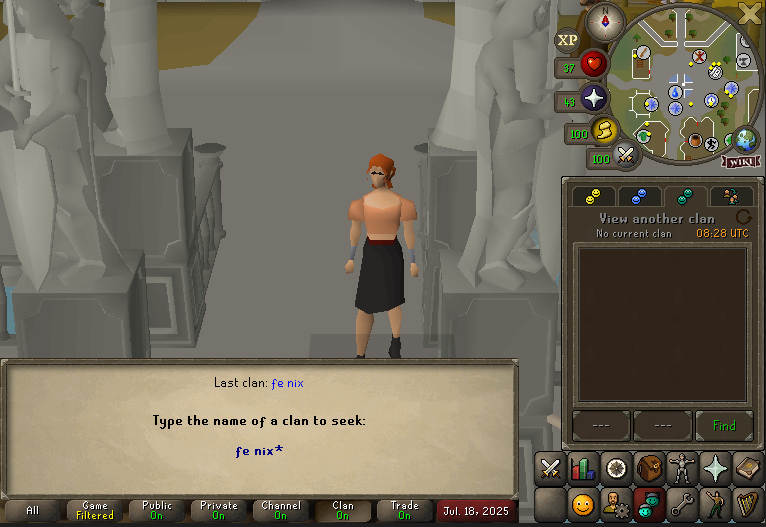
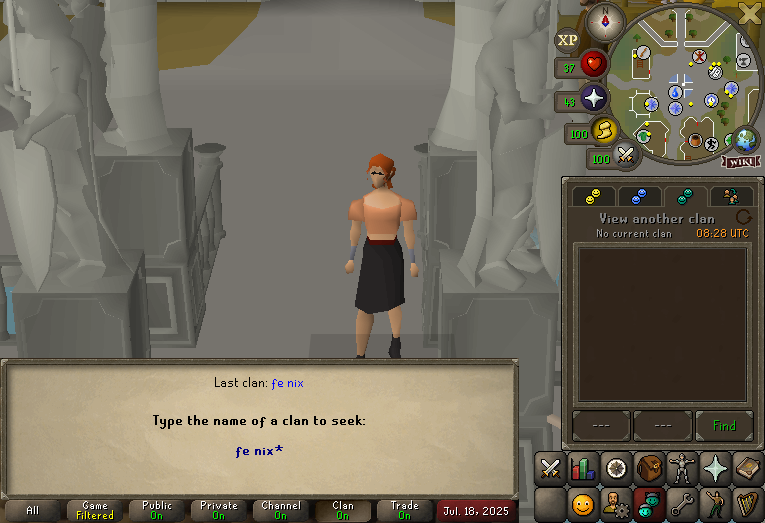
Added jpeg versions of big images

diff --git a/style.css b/style.css
@@ -203,7 +203,7 @@
 	{
 		position: relative;
 		background-color: #b9d6ff;
-		background-image: url(./images/LumbridgeNear.png);
+		background-image: url(./images/LumbridgeNear.jpg);
 		background-repeat: no-repeat;
 		background-position: center 10em;
 		background-attachment: fixed;
@@ -374,7 +374,7 @@
 		position: relative;
 		text-align: center;
 		background-color: #b9d6ff;
-		background-image: url(./images/LumbridgeFar.png);
+		background-image: url(./images/LumbridgeFar.jpg);
 		background-repeat: no-repeat;
 		background-position: bottom center;
 		background-attachment: fixed;

diff --git a/guesting/index.html b/guesting/index.html
@@ -46,7 +46,7 @@
 			<p>Fe Nix is open to anyone who'd like to chat, regardless of whether or not they wish to become a member.</p>
 			<p>To be a guest of the clan follow the guide image below.</p>
 			<div class="image">
-				<img src="guesting_ui.png" alt=
+				<img src="guesting_ui.jpg" alt=
 				"OSRS with the grouping tab opened, the guest chat sub-tab opened, and a prompt asking for the name of a clan to guest in with the response fe nix"
 				>
 			</div>
